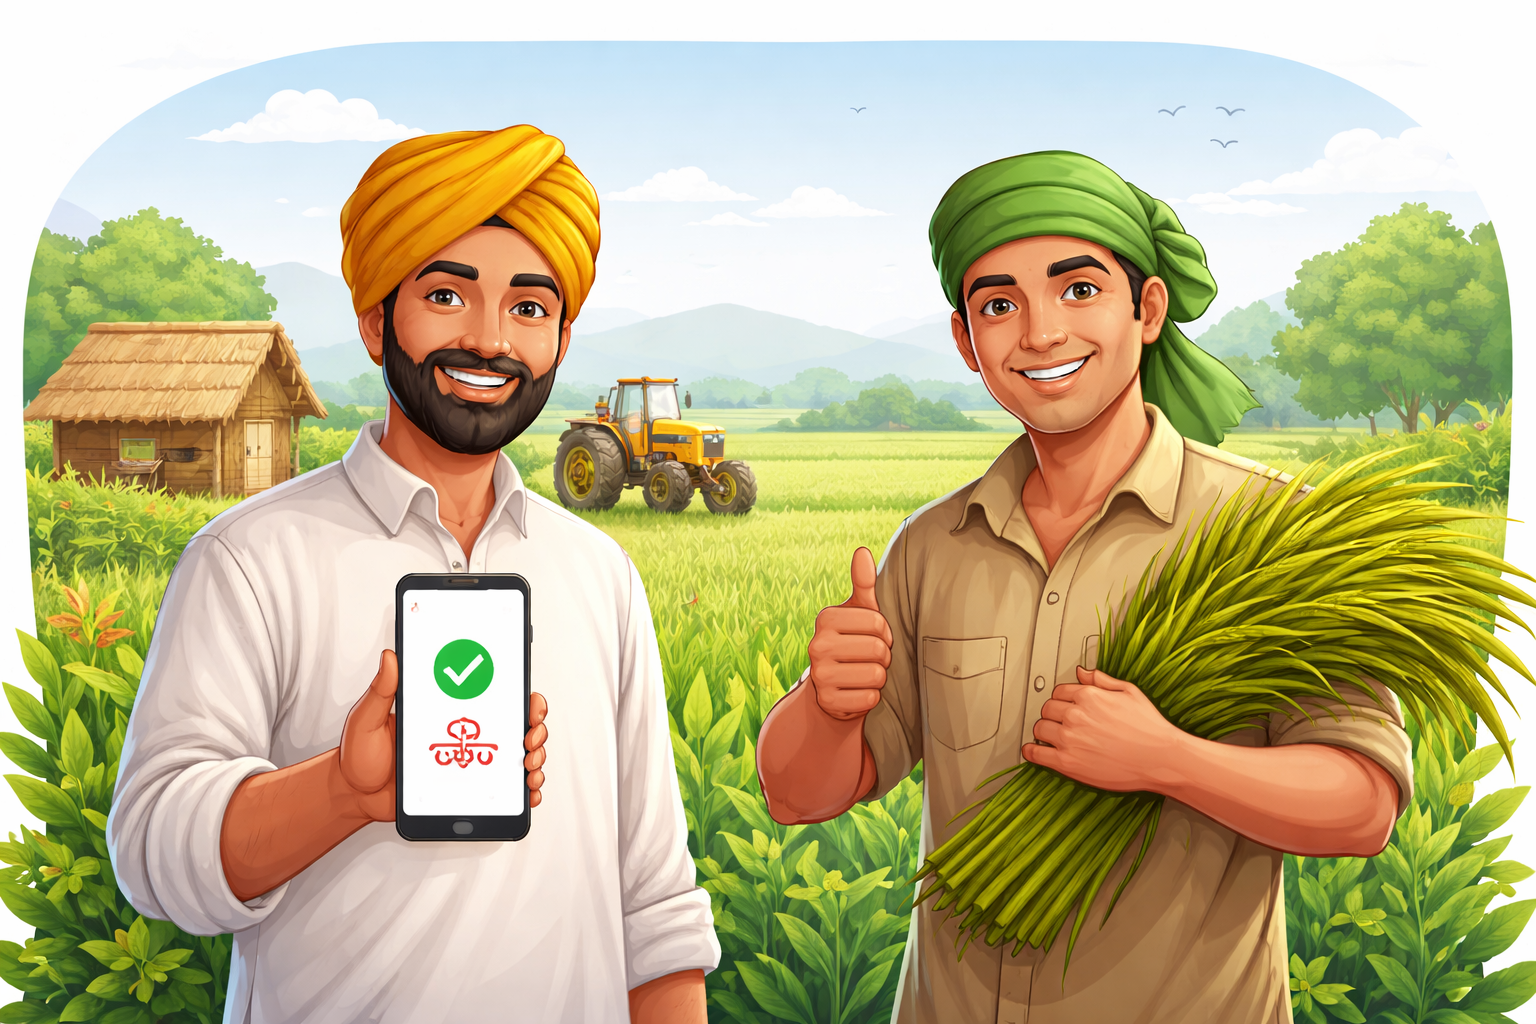
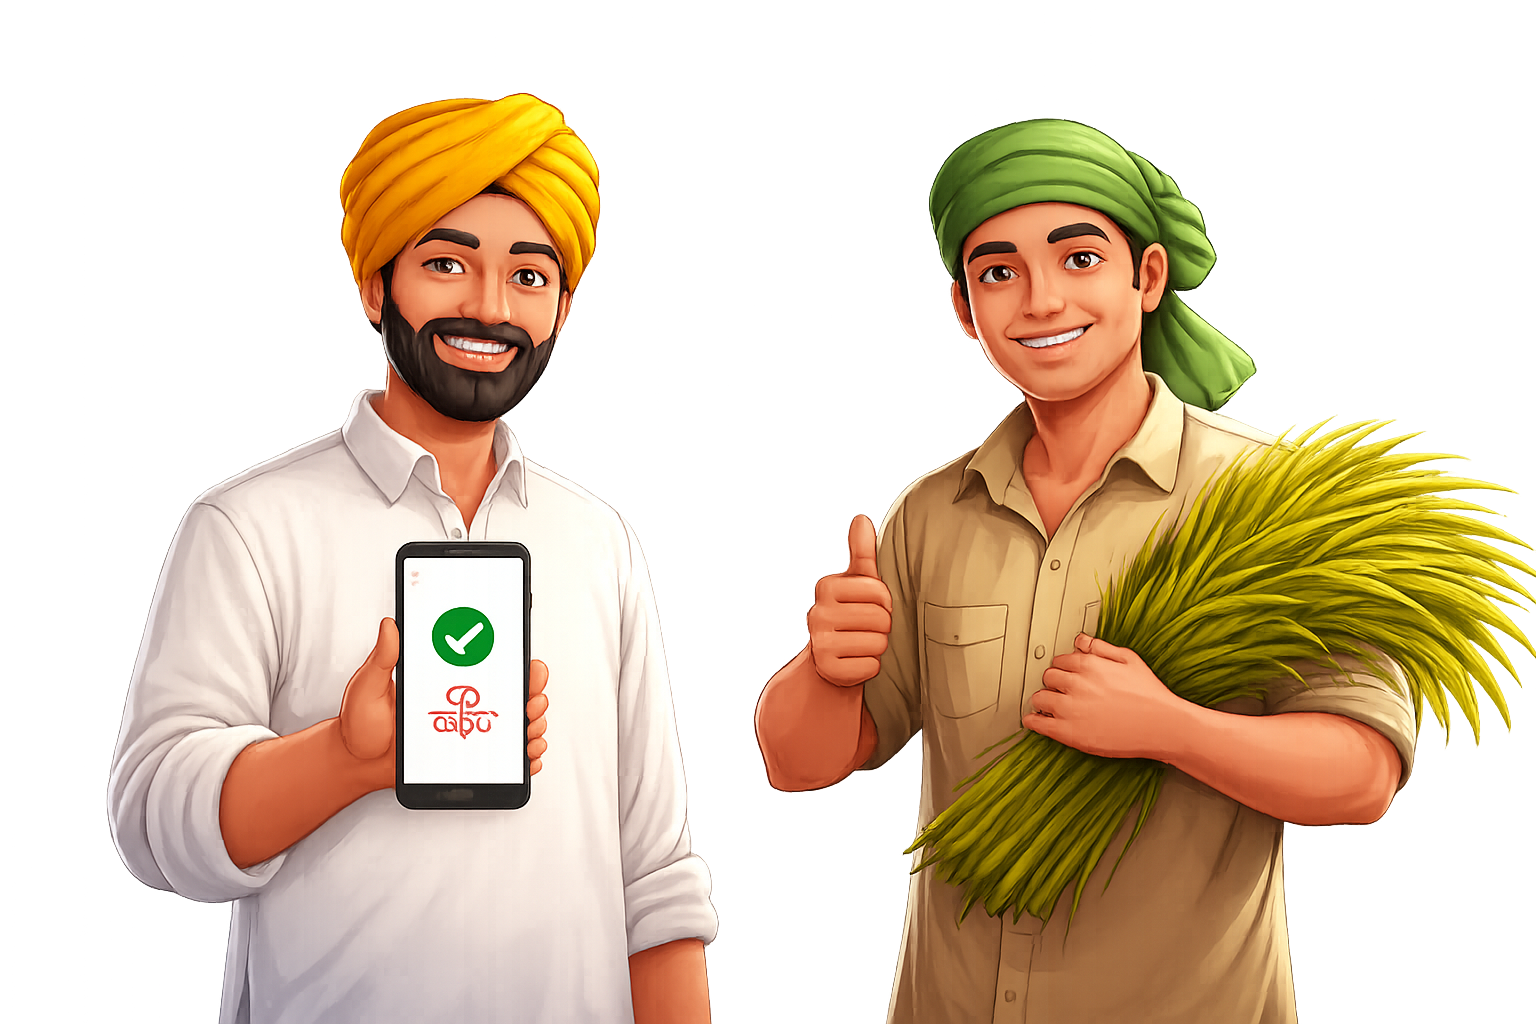
Home Page

diff --git a/Home.css b/Home.css
@@ -16,7 +16,7 @@ body {
       rgba(244, 248, 243, 0.92),
       rgba(244, 248, 243, 0.92)
     ),
-    url("Assets/Images/Farming.png");
+    url("Assets/Images/Farm.webp");
   background-size: cover;
   background-position: center;
 }
@@ -81,6 +81,14 @@ body {
   font-size: 2rem;
   margin-bottom: 15px;
 }
+
+/* HERO RIGHT IMAGE ONLY */
+.hero-right-image {
+  max-width: 100%;
+  height: auto;
+  opacity: 0.8; 
+}
+
 
 section {
   position: relative;

diff --git a/index.html b/index.html
@@ -52,8 +52,13 @@
         </div>
 
         <div class="col-md-6 text-center d-none d-md-block">
-          <!-- Background image handled in CSS -->
-        </div>
+  <img 
+    src= "Assets/Images/Farming.png"
+    alt="Farmers and workers illustration"
+    class="hero-right-image"
+  />
+</div>
+
 
       </div>
     </div>
